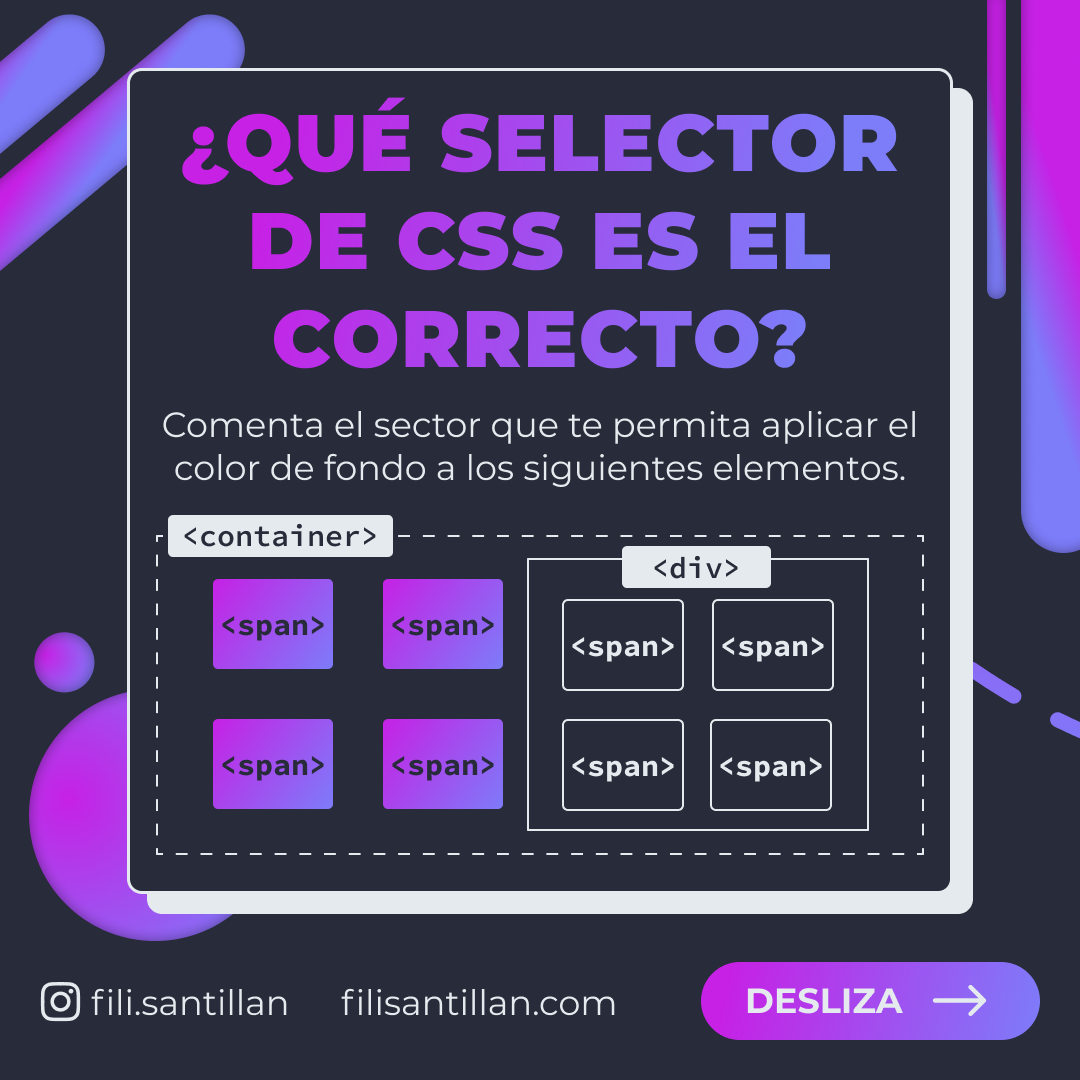
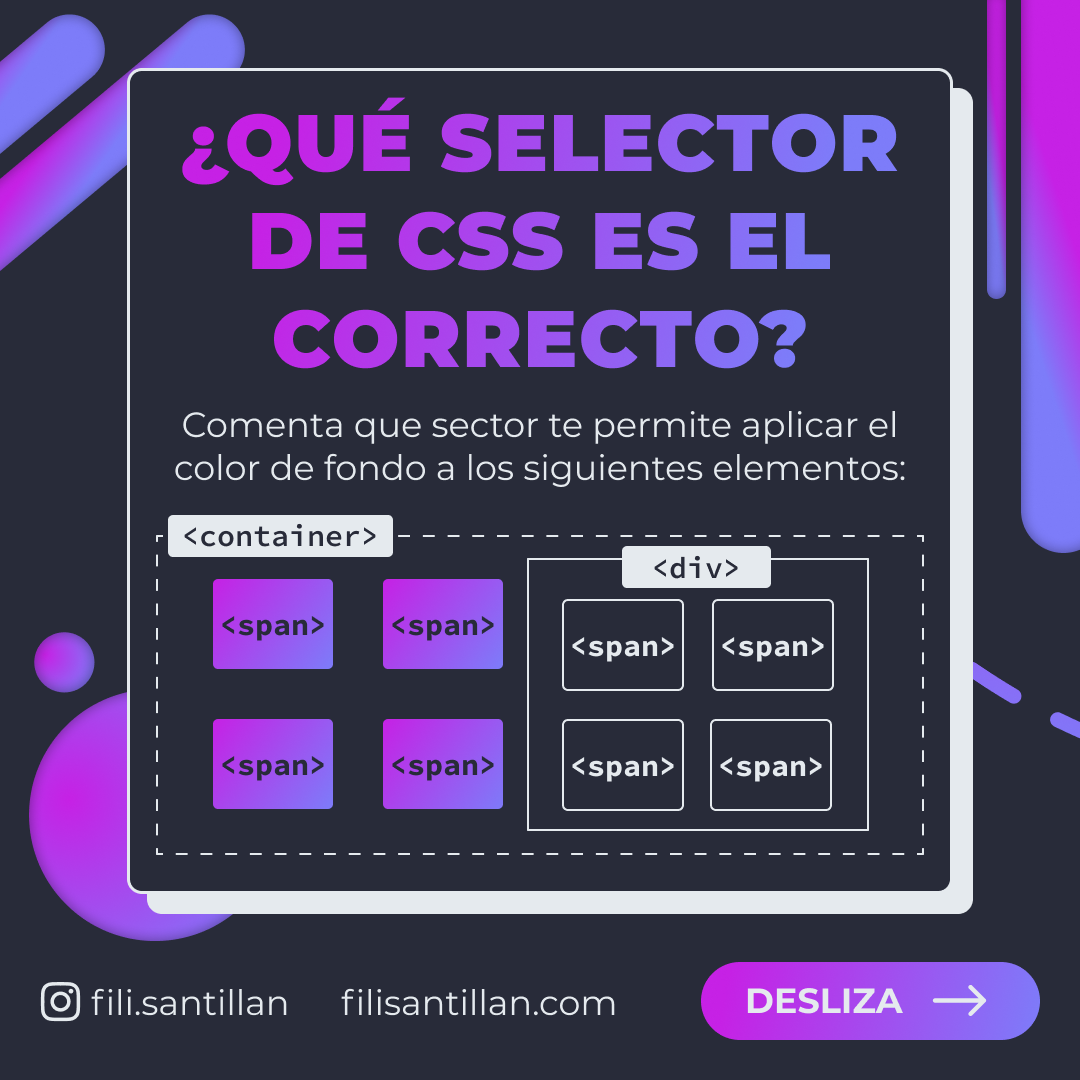
💄 ✏ Bit UI (changes) and fix typos

Changed region(s): [[0.1528, 0.3667, 0.8556, 0.4278]]

diff --git a/BitSnack/clone-arrays/clone-arrays.md b/BitSnack/clone-arrays/clone-arrays.md
@@ -35,6 +35,6 @@ Sitio web: http://filisantillan.com
 ## 📚 Recursos
 
 -   [ES6 Way to Clone an Array 🐑 ](https://www.samanthaming.com/tidbits/35-es6-way-to-clone-an-array/)
--   [How to Deep Clone an Array](https://www.samanthaming.com/tidbits/50-how-to-deep-clone-an-array/#shallow-vs-deep-clone)
+-   [How to Deep Clone an Array](https://www.samanthaming.com/tidbits/50-how-to-deep-clone-an-array/)
 -   [How to Deep Copy Objects and Arrays in JavaScript](https://medium.com/javascript-in-plain-english/how-to-deep-copy-objects-and-arrays-in-javascript-7c911359b089)
 -   [Fastest way to duplicate an array in JavaScript - slice vs. 'for' loop](https://stackoverflow.com/questions/3978492/fastest-way-to-duplicate-an-array-in-javascript-slice-vs-for-loop)

diff --git a/BitQuiz/css-quiz-01/css-quiz.md b/BitQuiz/css-quiz-01/css-quiz.md
@@ -1,6 +1,6 @@
 # ¿QUÉ SELECTOR DE CSS ES EL CORRECTO?
 
-El sector que te permita aplicar el color de fondo a los siguientes elementos.
+¿Qué sector que te permite aplicar el color de fondo a los siguientes elementos?
 
 > Código utilizado en los ejemplos: [problem.css](./problem.css)
 
